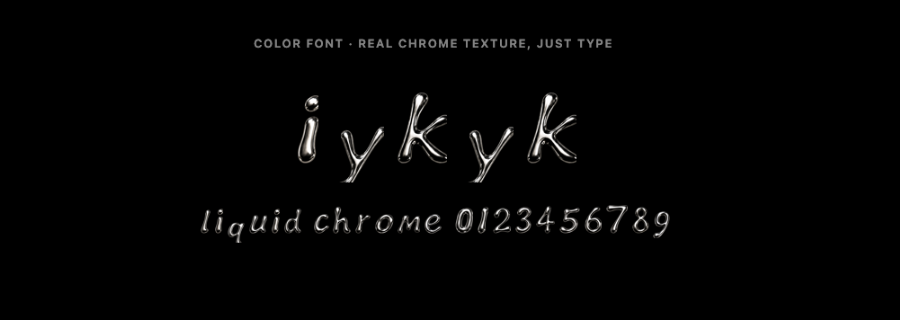
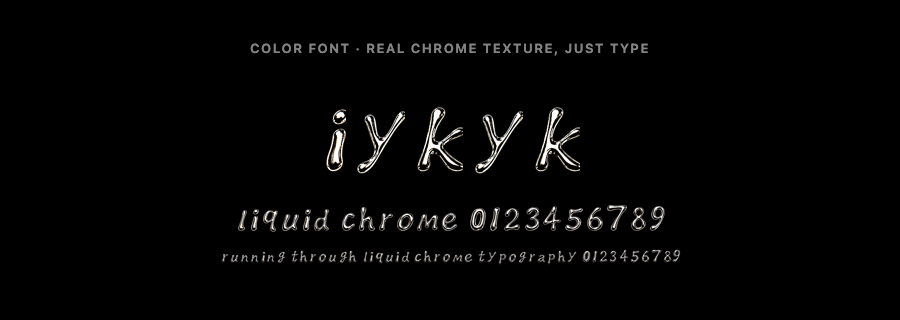
Align glyphs on a common baseline and strengthen the color font at small sizes
Baseline: dy values are now derived from the PNG alpha masks
(scripts/derive_metrics.py) instead of hand-tuned guesses — glyph bodies
rest on the baseline, descenders (g j p q y) dip below only as far as
their measured tail; f, t and 9 sit on the baseline. Updated consistently
in build_font.py and demo/composer.html.

Small sizes: the sbix bitmaps get contrast/saturation boosts plus unsharp
masking, and a second 200 ppem strike with a stronger treatment keeps the
chrome punchy at body-text sizes. Demo gains an 18px sample line.

diff --git a/demo/composer.html b/demo/composer.html
@@ -94,23 +94,25 @@
 <main><div id="canvas"></div></main>
 <footer>Glyphs: glyphs/png/*.png &middot; lowercase a&ndash;z and 0&ndash;9 are available; other characters are skipped.</footer>
 <script>
-  // Vertical metrics per glyph, hand-tuned for the generated set.
+  // Vertical metrics per glyph — identical to scripts/build_font.py.
   // h: height relative to the base size, dy: shift below the baseline
-  // (fraction of base size) for descenders.
+  // (fraction of base size). dy is derived from the PNG alpha masks
+  // (scripts/derive_metrics.py): glyph bodies rest on the baseline,
+  // descenders (g j p q y) dip below only as far as their measured tail.
   const METRICS = {
     a: { h: 1.00, dy: 0.02 }, b: { h: 1.45, dy: 0.02 }, c: { h: 1.05, dy: 0.02 },
-    d: { h: 1.30, dy: 0.02 }, e: { h: 1.05, dy: 0.02 }, f: { h: 1.55, dy: 0.30 },
-    g: { h: 1.35, dy: 0.38 }, h: { h: 1.40, dy: 0.02 }, i: { h: 1.30, dy: 0.02 },
-    j: { h: 1.45, dy: 0.30 }, k: { h: 1.35, dy: 0.02 }, l: { h: 1.25, dy: 0.02 },
+    d: { h: 1.30, dy: 0.02 }, e: { h: 1.05, dy: 0.02 }, f: { h: 1.55, dy: 0.02 },
+    g: { h: 1.35, dy: 0.05 }, h: { h: 1.40, dy: 0.02 }, i: { h: 1.30, dy: 0.02 },
+    j: { h: 1.45, dy: 0.03 }, k: { h: 1.35, dy: 0.02 }, l: { h: 1.25, dy: 0.02 },
     m: { h: 1.00, dy: 0.02 }, n: { h: 1.00, dy: 0.02 }, o: { h: 1.05, dy: 0.02 },
-    p: { h: 1.30, dy: 0.35 }, q: { h: 1.30, dy: 0.35 }, r: { h: 1.05, dy: 0.02 },
-    s: { h: 1.10, dy: 0.02 }, t: { h: 1.40, dy: 0.15 }, u: { h: 1.00, dy: 0.02 },
+    p: { h: 1.30, dy: 0.14 }, q: { h: 1.30, dy: 0.06 }, r: { h: 1.05, dy: 0.02 },
+    s: { h: 1.10, dy: 0.02 }, t: { h: 1.40, dy: 0.02 }, u: { h: 1.00, dy: 0.02 },
     v: { h: 1.05, dy: 0.02 }, w: { h: 1.05, dy: 0.02 }, x: { h: 1.10, dy: 0.02 },
-    y: { h: 1.30, dy: 0.30 }, z: { h: 0.95, dy: 0.02 },
+    y: { h: 1.30, dy: 0.04 }, z: { h: 0.95, dy: 0.02 },
     0: { h: 1.35, dy: 0.02 }, 1: { h: 1.40, dy: 0.02 }, 2: { h: 1.35, dy: 0.02 },
     3: { h: 1.40, dy: 0.02 }, 4: { h: 1.45, dy: 0.02 }, 5: { h: 1.35, dy: 0.02 },
     6: { h: 1.40, dy: 0.02 }, 7: { h: 1.50, dy: 0.02 }, 8: { h: 1.40, dy: 0.02 },
-    9: { h: 1.45, dy: 0.15 }
+    9: { h: 1.45, dy: 0.02 }
   };
   const GLYPH_DIR = "../glyphs/png/";
 

diff --git a/demo/index.html b/demo/index.html
@@ -14,9 +14,10 @@
   h2 { font-size: 13px; font-weight: 600; letter-spacing: 0.12em; text-transform: uppercase; opacity: 0.55; margin-bottom: 28px; }
   .headline { font-size: clamp(56px, 11vw, 150px); line-height: 1.1; }
   .sub { font-size: clamp(22px, 4vw, 44px); margin-top: 10px; }
+  .small { font-size: 18px; margin-top: 14px; }
   .png-row { display: flex; justify-content: center; align-items: flex-end; }
   .png-row img { height: clamp(70px, 13vw, 170px); margin-right: 6px; }
-  .png-row img.desc { margin-bottom: calc(clamp(70px, 13vw, 170px) * -0.23); height: calc(clamp(70px, 13vw, 170px) * 1.3); }
+  .png-row img.desc { margin-bottom: calc(clamp(70px, 13vw, 170px) * -0.03); height: calc(clamp(70px, 13vw, 170px) * 1.3); }
   a.button {
     display: inline-block; margin-top: 40px; padding: 12px 22px;
     border: 1px solid currentColor; border-radius: 999px;
@@ -31,6 +32,7 @@
   <h2>Color font &middot; real chrome texture, just type</h2>
   <div class="headline liquid-chrome-color">iykyk</div>
   <div class="sub liquid-chrome-color">liquid chrome 0123456789</div>
+  <div class="small liquid-chrome-color">running through liquid chrome typography 0123456789</div>
 </section>
 
 <section class="dark">

diff --git a/scripts/derive_metrics.py b/scripts/derive_metrics.py
@@ -1,0 +1,76 @@
+#!/usr/bin/env python3
+"""Derive the baseline shift (dy) for every glyph from its PNG alpha mask.
+
+The goal is that all letters visually sit on one line: the "body" of each
+glyph (without ascenders/descenders) rests on the baseline. Non-descender
+glyphs simply sit with their bitmap bottom edge on the baseline (dy = 0.02,
+a slight optical overlap). For descender glyphs (g j p q y) the thin tail
+may dip below the baseline, but only as far as the actual tail in the image.
+
+The tail is measured from the row ink-width profile of the cleaned mask
+(same cleanup as build_font.py): scanning up from the ink bottom, rows are
+"tail" while their ink width stays below 45% of the glyph's typical body
+width (75th percentile of all inked rows — more robust than the max, which
+is dominated by single wide bulges). dy is then the tail extent in units of
+BASE, minus the same 0.02 overlap.
+
+Usage:
+  python scripts/derive_metrics.py    # prints a dy table for METRICS
+"""
+
+from __future__ import annotations
+
+import numpy as np
+from PIL import Image, ImageFilter
+
+from build_font import GLYPH_DIR, METRICS
+
+DESCENDERS = set("gjpqy")
+BODY_WIDTH_FRAC = 0.45
+BASELINE_OVERLAP = 0.02
+
+
+def clean_mask(char: str) -> np.ndarray:
+    """Same alpha cleanup as build_font.trace_glyph."""
+    img = Image.open(GLYPH_DIR / f"{char}.png").convert("RGBA")
+    alpha = Image.fromarray(np.array(img)[:, :, 3])
+    m = alpha.filter(ImageFilter.GaussianBlur(2))
+    m = m.point(lambda p: 255 if p > 40 else 0)
+    m = m.filter(ImageFilter.MaxFilter(15)).filter(ImageFilter.MinFilter(15))
+    m = m.filter(ImageFilter.GaussianBlur(3))
+    m = m.point(lambda p: 255 if p > 128 else 0)
+    return np.array(m) > 0
+
+
+def derive_dy(char: str) -> float:
+    if char not in DESCENDERS:
+        return BASELINE_OVERLAP
+
+    mask = clean_mask(char)
+    height = mask.shape[0]
+    widths = mask.sum(axis=1)
+    ink = np.nonzero(widths)[0]
+    body_width = np.percentile(widths[ink[0] : ink[-1] + 1], 75)
+    threshold = body_width * BODY_WIDTH_FRAC
+
+    body_bottom = ink[-1]
+    for row in range(ink[-1], ink[0] - 1, -1):
+        if widths[row] >= threshold:
+            body_bottom = row
+            break
+
+    h_rel = METRICS[char][0]
+    tail = (height - 1 - body_bottom) / height * h_rel
+    return round(max(BASELINE_OVERLAP, tail - BASELINE_OVERLAP), 2)
+
+
+def main() -> None:
+    print("char  h     dy_old  dy_new")
+    for char, (h_rel, dy_old) in METRICS.items():
+        dy_new = derive_dy(char)
+        flag = "  <-- change" if abs(dy_new - dy_old) > 0.005 else ""
+        print(f"{char:>4}  {h_rel:.2f}  {dy_old:.2f}    {dy_new:.2f}{flag}")
+
+
+if __name__ == "__main__":
+    main()

diff --git a/scripts/build_color_font.py b/scripts/build_color_font.py
@@ -17,11 +17,10 @@ from __future__ import annotations
 import io
 from pathlib import Path
 
-import numpy as np
 from fontTools.ttLib import TTFont, newTable
 from fontTools.ttLib.tables.sbixGlyph import Glyph as SbixGlyph
 from fontTools.ttLib.tables.sbixStrike import Strike
-from PIL import Image
+from PIL import Image, ImageEnhance, ImageFilter
 
 from build_font import BASE, GLYPH_DIR, METRICS, SIDE_BEARING, UPM
 
@@ -31,48 +30,79 @@ OUT_WOFF2 = Path("fonts/LiquidChrome-Color.woff2")
 PS_NAME = "LiquidChrome-Color"
 STYLE = "Color"
 
-# One high-res strike: at PPEM pixels per em the 'a' glyph is
-# BASE/UPM * PPEM = 520 px tall, close to the native render resolution.
-PPEM = 1000
+# Two strikes. The big one keeps the native render resolution (at PPEM
+# pixels per em the 'a' glyph is BASE/UPM * PPEM = 520 px tall). The small
+# one targets body-text sizes: its bitmaps get a much stronger contrast /
+# sharpen treatment so the chrome stays punchy when rendered small, where
+# plain downsampling washes the reflections out to a pale gray.
+#   (ppem, contrast, saturation, unsharp %, brightness)
+STRIKES = (
+    (1000, 1.18, 1.10, 60, 1.00),
+    (200, 1.50, 1.30, 160, 1.10),
+)
 
 
-def bitmap_for(char: str) -> tuple[bytes, int, int]:
-    """Resample one chrome PNG for the strike.
+def enhance(img: Image.Image, contrast: float, saturation: float,
+            unsharp_percent: int, brightness: float) -> Image.Image:
+    """Boost the chrome texture without touching the alpha silhouette."""
+    r, g, b, a = img.split()
+    rgb = Image.merge("RGB", (r, g, b))
+    if brightness != 1.0:
+        rgb = ImageEnhance.Brightness(rgb).enhance(brightness)
+    rgb = ImageEnhance.Contrast(rgb).enhance(contrast)
+    rgb = ImageEnhance.Color(rgb).enhance(saturation)
+    rgb = rgb.filter(
+        ImageFilter.UnsharpMask(radius=2, percent=unsharp_percent, threshold=2)
+    )
+    out = rgb.convert("RGBA")
+    out.putalpha(a)
+    return out
+
+
+def bitmap_for(char: str, ppem: int, contrast: float, saturation: float,
+               unsharp_percent: int, brightness: float) -> tuple[bytes, int, int]:
+    """Resample one chrome PNG for a strike.
 
     Returns (png bytes, originOffsetX, originOffsetY) in strike pixels.
     """
     img = Image.open(GLYPH_DIR / f"{char}.png").convert("RGBA")
     h_rel, dy_rel = METRICS[char]
-    target_h = int(round(h_rel * BASE / UPM * PPEM))
+    target_h = int(round(h_rel * BASE / UPM * ppem))
     target_w = max(1, int(round(img.width * target_h / img.height)))
     img = img.resize((target_w, target_h), Image.LANCZOS)
+    img = enhance(img, contrast, saturation, unsharp_percent, brightness)
 
     buf = io.BytesIO()
     img.save(buf, format="PNG", optimize=True)
-    off_x = int(round(SIDE_BEARING / UPM * PPEM))
-    off_y = int(round(-dy_rel * BASE / UPM * PPEM))
+    off_x = int(round(SIDE_BEARING / UPM * ppem))
+    off_y = int(round(-dy_rel * BASE / UPM * ppem))
     return buf.getvalue(), off_x, off_y
 
 
 def main() -> None:
     font = TTFont(BASE_FONT)
 
-    strike = Strike(ppem=PPEM, resolution=72)
-    for char in METRICS:
-        name = f"uni{ord(char):04X}" if char.isdigit() else char
-        data, off_x, off_y = bitmap_for(char)
-        strike.glyphs[name] = SbixGlyph(
-            glyphName=name,
-            graphicType="png ",
-            imageData=data,
-            originOffsetX=off_x,
-            originOffsetY=off_y,
-        )
+    strikes = {}
+    for ppem, contrast, saturation, unsharp_percent, brightness in STRIKES:
+        strike = Strike(ppem=ppem, resolution=72)
+        for char in METRICS:
+            name = f"uni{ord(char):04X}" if char.isdigit() else char
+            data, off_x, off_y = bitmap_for(
+                char, ppem, contrast, saturation, unsharp_percent, brightness
+            )
+            strike.glyphs[name] = SbixGlyph(
+                glyphName=name,
+                graphicType="png ",
+                imageData=data,
+                originOffsetX=off_x,
+                originOffsetY=off_y,
+            )
+        strikes[ppem] = strike
 
     sbix = newTable("sbix")
     sbix.version = 1
     sbix.flags = 1
-    sbix.strikes = {PPEM: strike}
+    sbix.strikes = strikes
     font["sbix"] = sbix
 
     # Rename so both fonts can be installed side by side.

diff --git a/scripts/build_font.py b/scripts/build_font.py
@@ -53,20 +53,23 @@ COPYRIGHT = (
 
 # Vertical metrics per glyph — identical to demo/composer.html.
 # h: glyph height relative to BASE, dy: shift below the baseline.
+# dy values are derived from the PNG alpha masks (scripts/derive_metrics.py):
+# every glyph body rests on the baseline; descenders (g j p q y) dip below
+# only as far as the actual thin tail measured in the bitmap.
 METRICS = {
     "a": (1.00, 0.02), "b": (1.45, 0.02), "c": (1.05, 0.02),
-    "d": (1.30, 0.02), "e": (1.05, 0.02), "f": (1.55, 0.30),
-    "g": (1.35, 0.38), "h": (1.40, 0.02), "i": (1.30, 0.02),
-    "j": (1.45, 0.30), "k": (1.35, 0.02), "l": (1.25, 0.02),
+    "d": (1.30, 0.02), "e": (1.05, 0.02), "f": (1.55, 0.02),
+    "g": (1.35, 0.05), "h": (1.40, 0.02), "i": (1.30, 0.02),
+    "j": (1.45, 0.03), "k": (1.35, 0.02), "l": (1.25, 0.02),
     "m": (1.00, 0.02), "n": (1.00, 0.02), "o": (1.05, 0.02),
-    "p": (1.30, 0.35), "q": (1.30, 0.35), "r": (1.05, 0.02),
-    "s": (1.10, 0.02), "t": (1.40, 0.15), "u": (1.00, 0.02),
+    "p": (1.30, 0.14), "q": (1.30, 0.06), "r": (1.05, 0.02),
+    "s": (1.10, 0.02), "t": (1.40, 0.02), "u": (1.00, 0.02),
     "v": (1.05, 0.02), "w": (1.05, 0.02), "x": (1.10, 0.02),
-    "y": (1.30, 0.30), "z": (0.95, 0.02),
+    "y": (1.30, 0.04), "z": (0.95, 0.02),
     "0": (1.35, 0.02), "1": (1.40, 0.02), "2": (1.35, 0.02),
     "3": (1.40, 0.02), "4": (1.45, 0.02), "5": (1.35, 0.02),
     "6": (1.40, 0.02), "7": (1.50, 0.02), "8": (1.40, 0.02),
-    "9": (1.45, 0.15),
+    "9": (1.45, 0.02),
 }
 
 

diff --git a/README.md b/README.md
@@ -112,11 +112,11 @@ In plain HTML:
 
 ```html
 <img src="glyphs/png/i.png" style="height: 120px" alt="i">
-<img src="glyphs/png/y.png" style="height: 156px; margin-bottom: -36px" alt="y">
+<img src="glyphs/png/y.png" style="height: 156px; margin-bottom: -5px" alt="y">
 ```
 
-(Descenders like `g j p q y f` need a negative bottom margin; see the metrics
-table in `demo/composer.html`.)
+(Descenders like `g j p q y` need a small negative bottom margin; see the
+metrics table in `demo/composer.html`.)
 
 ### Option C — Outline font
 
@@ -145,9 +145,15 @@ python3 -m venv .venv && .venv/bin/pip install -r requirements.txt
 the alpha channel of every PNG in `glyphs/png/` is cleaned up (morphological
 closing removes pinholes left by dark reflections) and traced to vector
 outlines with potrace, so the font has exactly the same letterforms as the
-pixel-perfect glyphs. Vertical placement uses the same hand-tuned metrics as
-the composer. `A-Z` maps onto the single-case `a-z` shapes. Exports TTF, OTF
-and WOFF2.
+pixel-perfect glyphs. Vertical placement is derived from the PNG masks
+themselves (`scripts/derive_metrics.py`): every glyph body rests on a common
+baseline, and descenders (`g j p q y`) dip below only as far as their
+measured tail. `A-Z` maps onto the single-case `a-z` shapes. Exports TTF,
+OTF and WOFF2.
+
+`scripts/build_color_font.py` embeds two `sbix` strikes: a 1000 ppem strike
+at the native render resolution and a contrast-boosted 200 ppem strike so
+the chrome stays punchy at body-text sizes.
 
 ## Repository layout
 